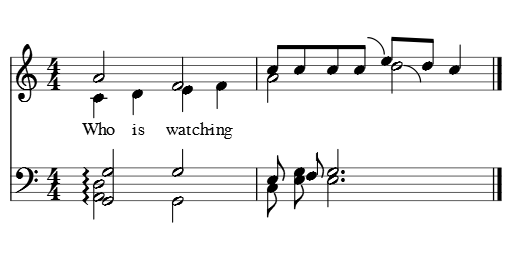
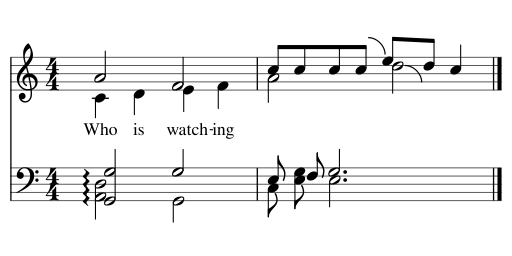
update lyrics style settings (position/margins)
Former-commit-id: 0164e65bb01a24cb4b5d9515560d2d7025c63681

diff --git a/libmscore/style.cpp b/libmscore/style.cpp
@@ -260,8 +260,8 @@ void initStyle(MStyle* s)
       AS("Composer", ff, 12, false, false, false, AlignmentFlags::RIGHT   | AlignmentFlags::BOTTOM, QPointF(), OA);
       AS("Lyricist", ff, 12, false, false, false, AlignmentFlags::LEFT    | AlignmentFlags::BOTTOM, QPointF(), OA);
 
-      AS("Lyrics Odd Lines", ff, 11, false, false, false, AlignmentFlags::HCENTER | AlignmentFlags::BASELINE, QPointF(0, 7), OS, true);
-      AS("Lyrics Even Lines", ff, 11, false, false, false, AlignmentFlags::HCENTER | AlignmentFlags::BASELINE, QPointF(0, 7), OS, true);
+      AS("Lyrics Odd Lines", ff, 11, false, false, false, AlignmentFlags::HCENTER | AlignmentFlags::BASELINE, QPointF(0, 6), OS, true);
+      AS("Lyrics Even Lines", ff, 11, false, false, false, AlignmentFlags::HCENTER | AlignmentFlags::BASELINE, QPointF(0, 6), OS, true);
       AS("Fingering", ff,  8, false, false, false, AlignmentFlags::CENTER, QPointF(), OA, true);
       AS("Instrument Name (Long)",   ff, 12, false, false, false, AlignmentFlags::RIGHT | AlignmentFlags::VCENTER, QPointF(), OA, true);
       AS("Instrument Name (Short)",   ff, 12, false, false, false, AlignmentFlags::RIGHT | AlignmentFlags::VCENTER, QPointF(), OA, true);
@@ -351,8 +351,8 @@ StyleData::StyleData()
             { StyleIdx::akkoladeDistance,            6.5  },
             { StyleIdx::minSystemDistance,           8.5  },
             { StyleIdx::maxSystemDistance,           15.0 },
-            { StyleIdx::lyricsDistance,              3.5  },
-            { StyleIdx::lyricsMinBottomDistance,     2    },
+            { StyleIdx::lyricsDistance,              2.0  },
+            { StyleIdx::lyricsMinBottomDistance,     4.0  },
             { StyleIdx::lyricsLineHeight,            QVariant(1.0) },
             { StyleIdx::figuredBassFontFamily,       QVariant(QString("MuseScore Figured Bass")) },
             { StyleIdx::figuredBassFontSize,         QVariant(8.0) },

diff --git a/libmscore/read114.cpp b/libmscore/read114.cpp
@@ -682,8 +682,8 @@ Score::FileError Score::read114(XmlReader& e)
             }
 
       // adjust some styles
-      if (style(StyleIdx::lyricsDistance) == MScore::baseStyle()->value(StyleIdx::lyricsDistance))
-            style()->set(StyleIdx::lyricsDistance, 2.0f);
+      qreal lmbd = styleD(StyleIdx::lyricsMinBottomDistance);
+      style()->set(StyleIdx::lyricsMinBottomDistance, lmbd + 4.0);
       if (style(StyleIdx::voltaY) == MScore::baseStyle()->value(StyleIdx::voltaY))
             style()->set(StyleIdx::voltaY, -2.0f);
       if (style(StyleIdx::hideEmptyStaves).toBool()) // http://musescore.org/en/node/16228
